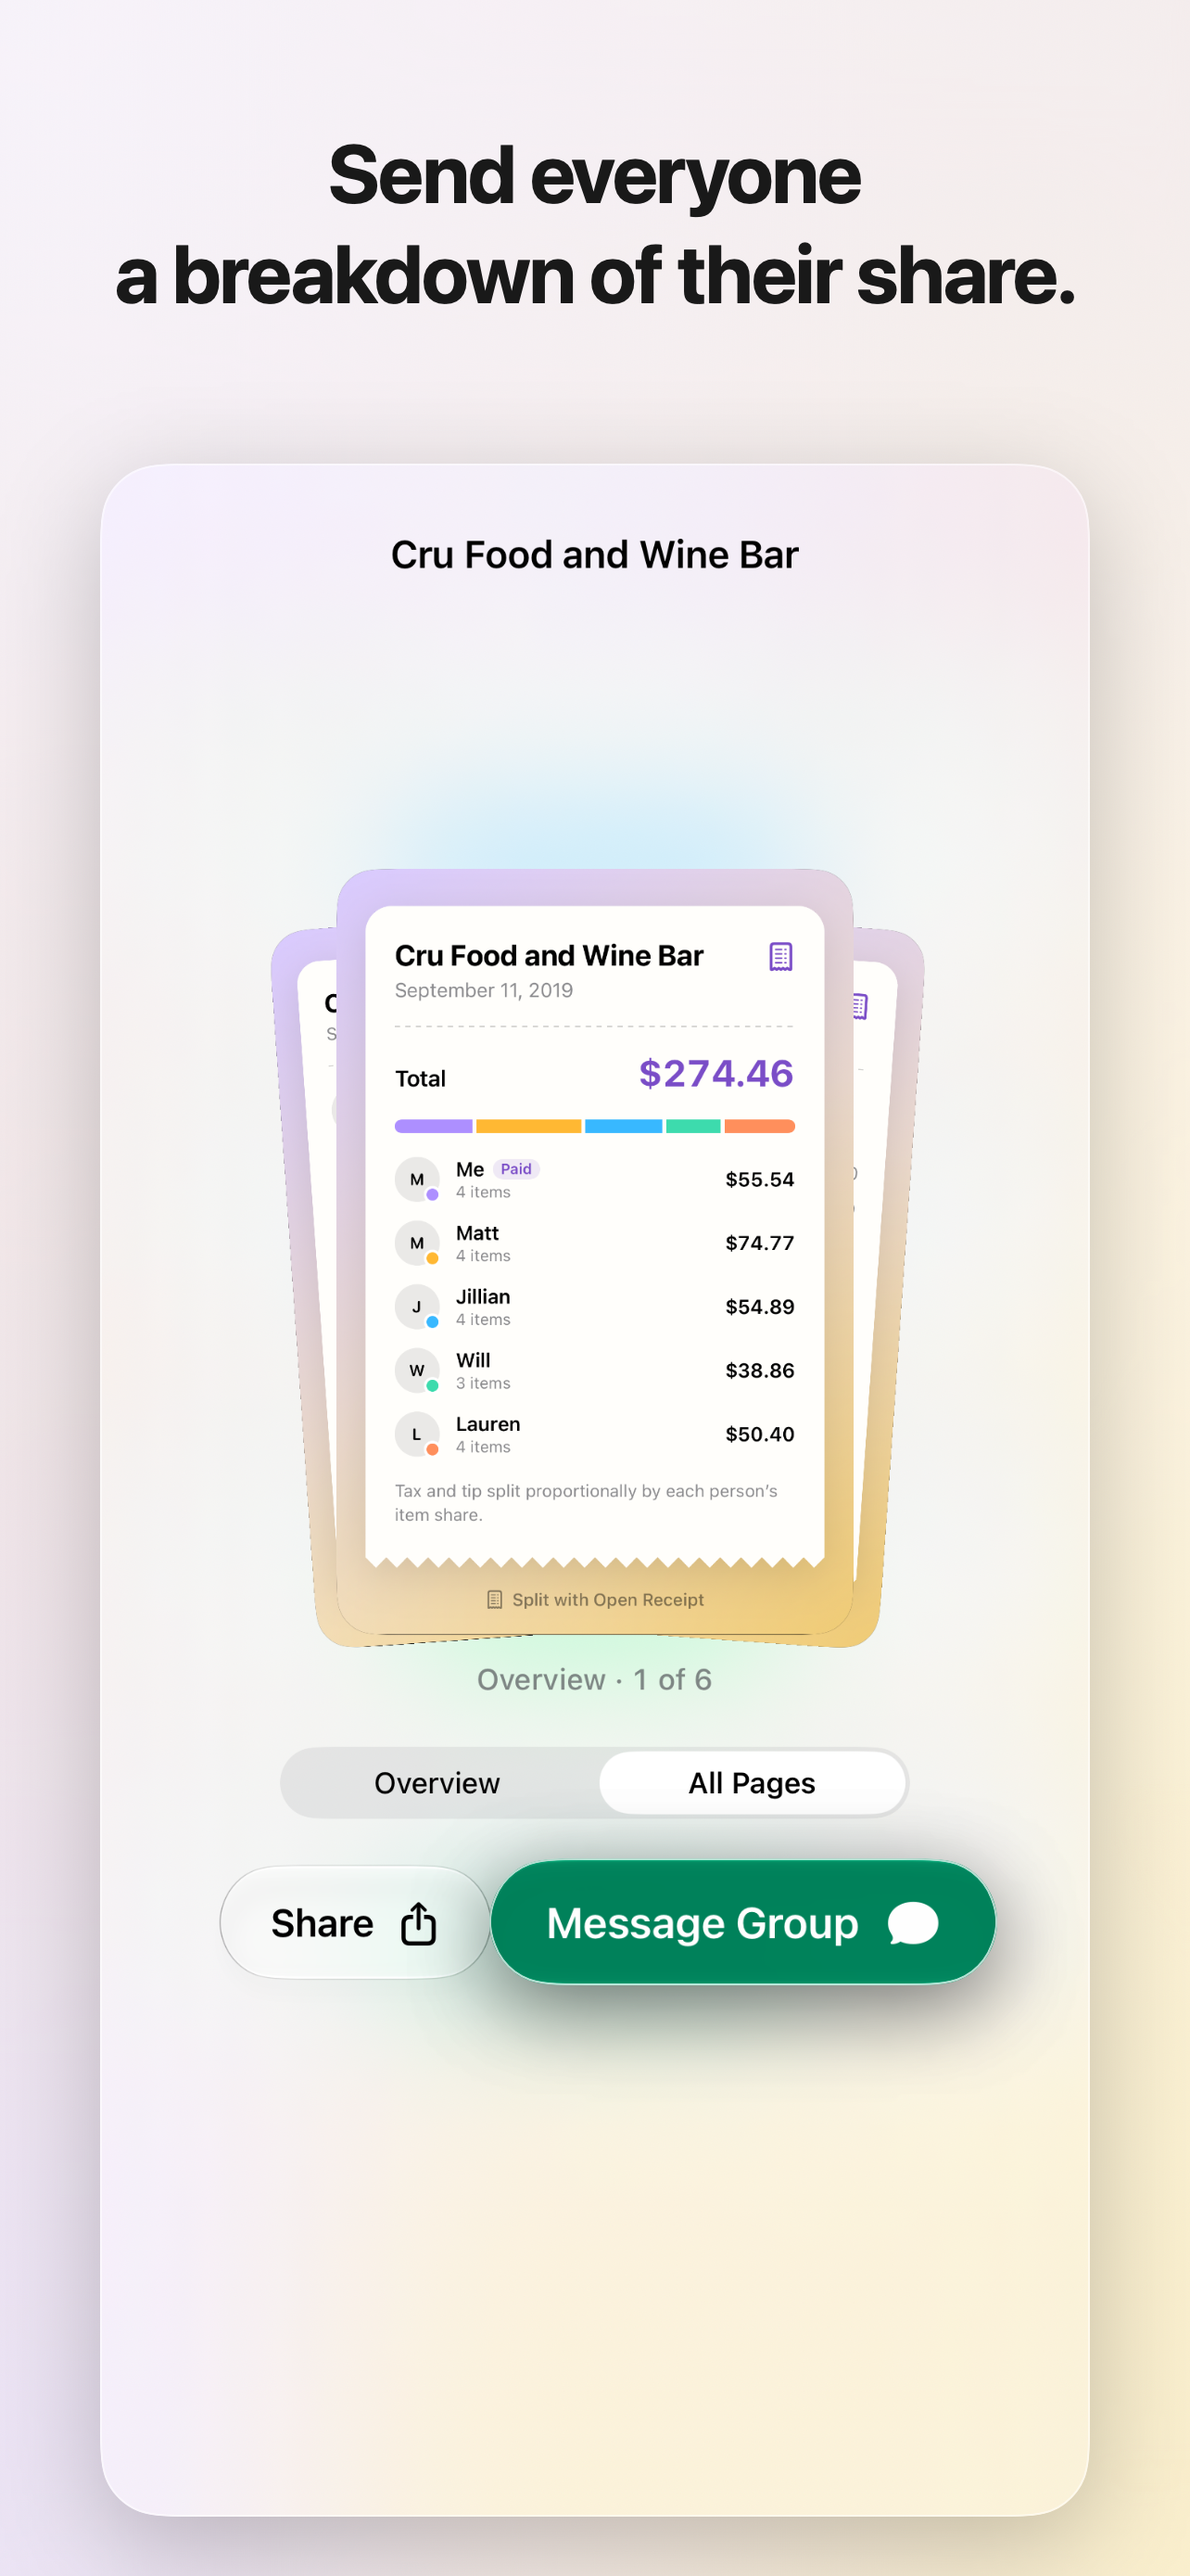
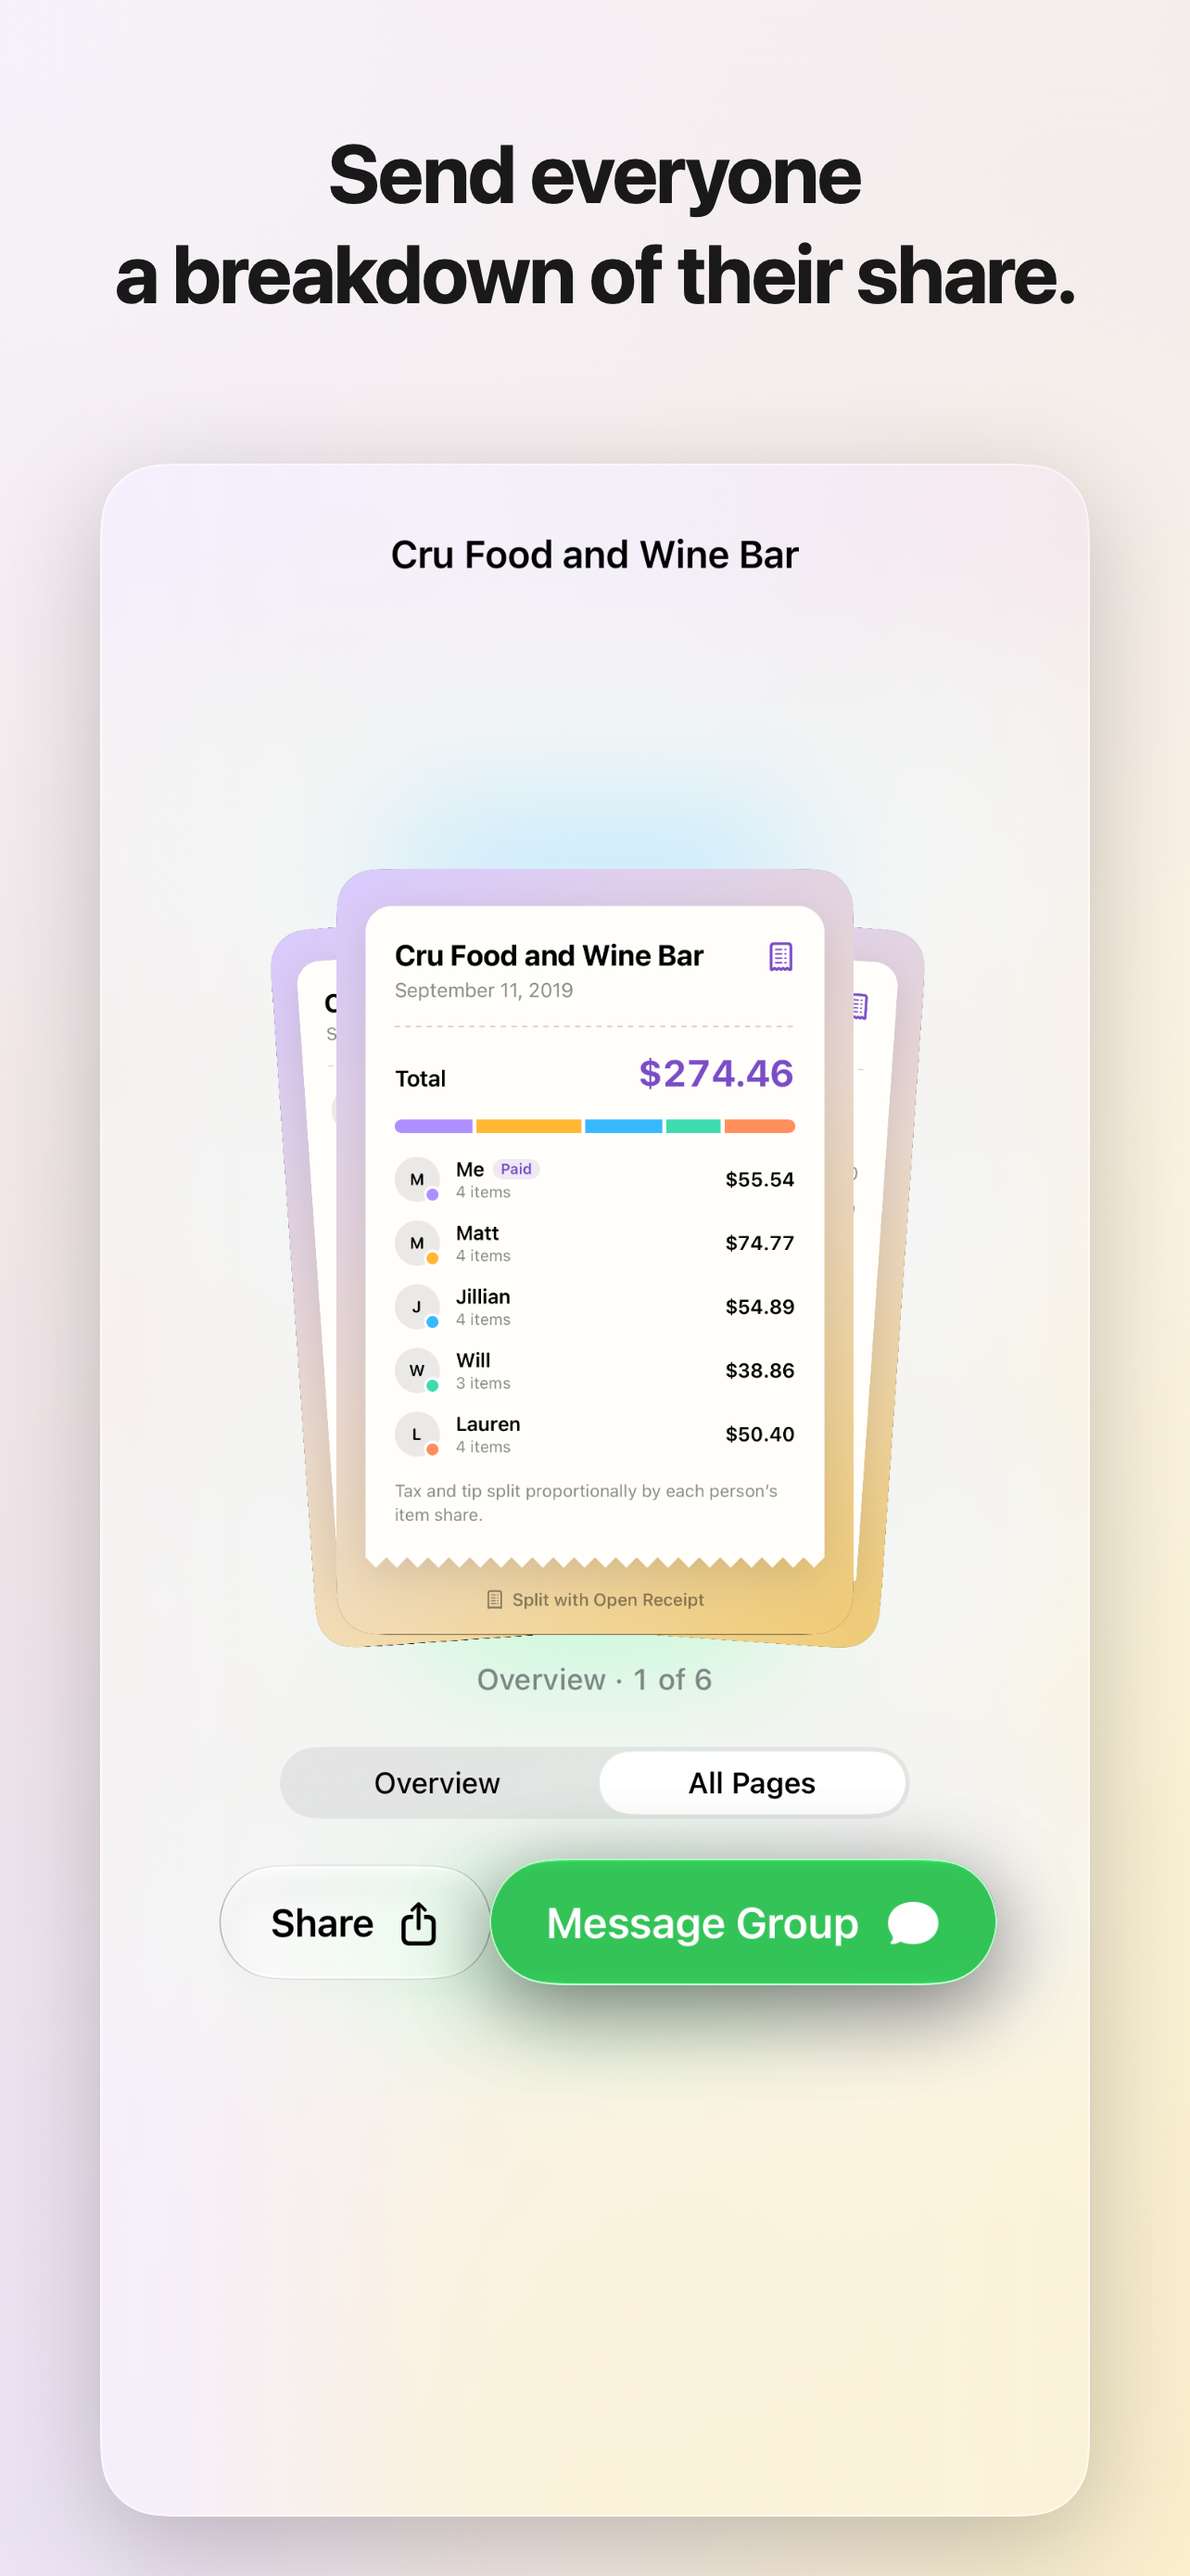
Color of iMessage

Changed region(s): [[0.405, 0.712, 0.8411, 0.7739]]

diff --git a/Sources/Features/Payments/PaymentMethodStyle.swift b/Sources/Features/Payments/PaymentMethodStyle.swift
@@ -1,8 +1,7 @@
 import SwiftUI
 
 extension PaymentMethod {
-  /// A color for prominent tinted buttons under white labels. Cash App keeps its brand green, so
-  /// iMessage takes a deeper, bluer green to stay distinct from it.
+  /// A color for prominent tinted buttons under white labels.
   var prominentColor: Color {
     switch self {
     case .venmo:
@@ -10,7 +9,7 @@ extension PaymentMethod {
     case .cashApp:
       Color(red: 0, green: 214.0 / 255.0, blue: 79.0 / 255.0)
     case .iMessage:
-      Color(red: 0, green: 0.52, blue: 0.36)
+      Color(.systemGreen)
     case .none:
       .orange
     }
